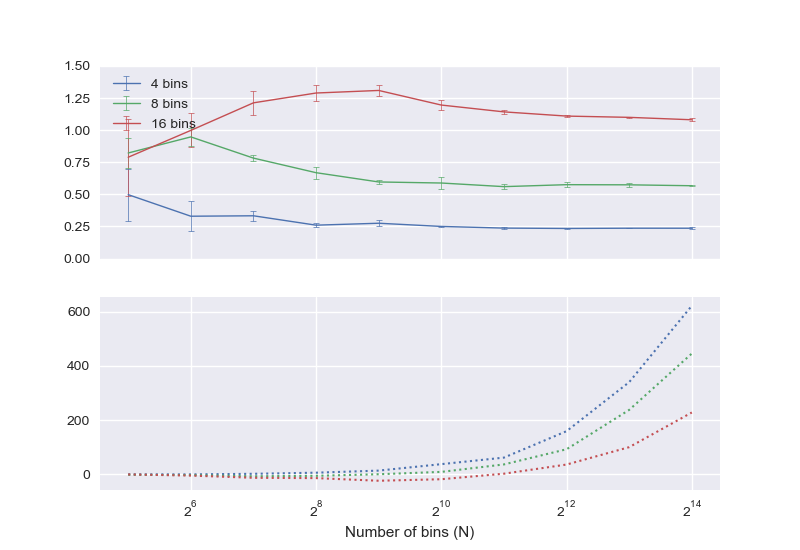
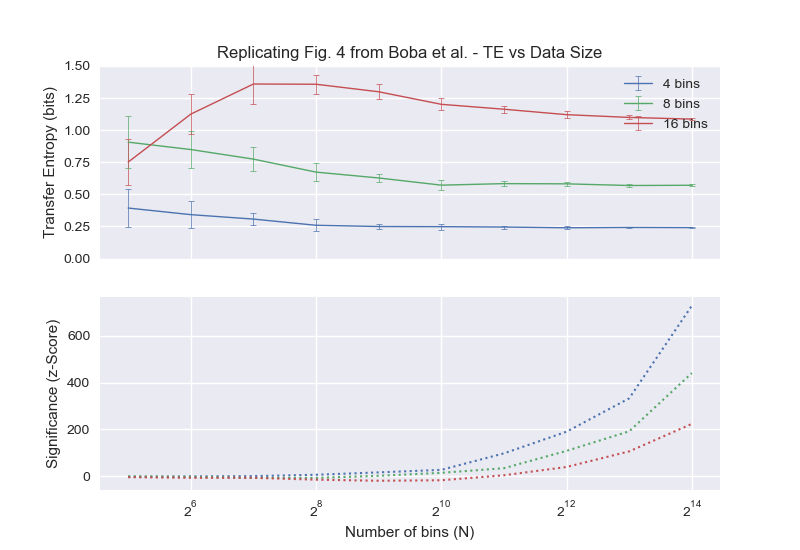
Added README, saved figures

diff --git a/PyCausality/Examples/coupled_map.py b/PyCausality/Examples/coupled_map.py
@@ -17,7 +17,7 @@ from PyCausality.TransferEntropy import *
 from PyCausality.Testing.Test_Utils.Time_Series_Generate import *
 
 AUTO_BINS = True
-N_OBSERVATIONS = 5    # Error Bars
+N_OBSERVATIONS = 10    # Error Bars
 N_SHUFFLES = 50       # Z-score
 
 Ns = [2**5, 2**6, 2**7, 2**8, 2**9, 2**10, 2**11, 2**12, 2**13, 2**14]
@@ -91,6 +91,7 @@ Z_axis.set_xlabel("Number of bins (N)")
 Z_axis.set_ylabel('Significance (z-Score)')
 TE_axis.legend(['4 bins','8 bins', '16 bins'])
 TE_axis.set_ylim(ymin=0,ymax=1.5)
+TE_axis.set_title('Replicating Fig. 4 from Boba et al. - TE vs Data Size')
 
-plt.savefig(os.path.join('Examples','Plots','Logistic_Coupled_Map.png'))
+plt.savefig(os.path.join(os.getcwd(),'PyCausality','Examples','Plots','Logistic_Coupled_Map.png'))
 plt.show()

diff --git a/PyCausality/Examples/optimal_bins.py b/PyCausality/Examples/optimal_bins.py
@@ -115,5 +115,5 @@ Z_axis.legend(['Significance of TE_X->Y with Equal Bins','Significance of TE_X->
                'Significance of TE_X->Y with Sigma Bins'])
 TE_axis.set_title('Coupled (Similarity = ' +str(SIMILARITY) + ') Gaussian Time Series using Different Bins.')
 
-plt.savefig(os.path.join('Examples','Plots','TE_vs_bins_alpha=' + str(SIMILARITY) + '.png'))
+plt.savefig(os.path.join(os.getcwd(),'PyCausality', 'Examples','Plots','TE_vs_bins_alpha=' + str(SIMILARITY) + '.png'))
 plt.show()

diff --git a/setup.py b/setup.py
@@ -12,5 +12,5 @@ setup(name="PyCausality",
       url="https://github.com/ZacKeskin/PyCausality",
       license="GNU GPLv3",
       packages=find_packages(),
-      install_requires = ['pandas','statsmodels','numpy', 'python-dateutil']
+      install_requires = ['pandas','statsmodels','numpy', 'python-dateutil','nose']
 )

diff --git a/PyCausality/Examples/te_vs_lag.py b/PyCausality/Examples/te_vs_lag.py
@@ -133,6 +133,6 @@ Z_axis.legend(['Significance of TE (S1->S2)','Significance of TE (S2->S1)'])
 plt.grid(linestyle='dashed')
 
 
-plt.savefig(os.path.join('Examples','Plots','Detect_Lag.png'))
+plt.savefig(os.path.join(os.getcwd(),'PyCausality','Examples','Plots','Detect_Lag.png'))
 plt.show()
 

diff --git a/README.md b/README.md
@@ -1,0 +1,119 @@
+# PyCausality
+
+PyCausality is a Python package enabling the rapid and flexible calculation of causality between multiple time series.
+
+
+
+# Installation
+
+The package can be downloaded from PyPi using pip. We recommend using Anaconda for creating virtual environments https://www.anaconda.com/download. In your chosen conda environment, or globally, you can then install PyCausality using:
+
+`pip install PyCausality`
+
+# Usage
+
+It is recommended to import the package object into your research code using:
+
+`from PyCausality import *`
+
+Which will give you access to:
+
+- `LaggedTimeSeries` objects
+- `TransferEntropy` objects
+- `AutoBins` objects
+
+With time series data stored in a pandas DataFrame, perform predictive analysis by invoking the TransferEntropy class. Using an example of daily stock price data, to calculate the information transfer in each direction between MSFT and AAPL, you would perform this as follows:
+
+    ## Initialise Object to Calculate Transfer Entropy
+    TE = TransferEntropy(   DF = DataFrame,
+                            endog = 'MSFT',     # Dependent Variable
+                            exog = 'AAPL',      # Independent Variable
+                            lag = 2,
+                            window_size = {'MS':6},
+                            window_stride = {'W':2}
+                            )
+
+    ## Calculate TE using KDE
+    TE.nonlinear_TE(pdf_estimator = 'kernel', n_shuffles=100)
+
+    ## Display TE_XY, TE_YX and significance values
+    print(TE.results)
+
+This example shows windowing of the time series, to reduce the risk of non-stationarity impacting the significance of the causality, and to provide multiple views on the overall timeseries (some periods may express large dependencies which could be cancelled out by earlier periods). 
+
+To make use of automatic binning, you may supply the data you would like to bin to the AutoBins class, and generate bins as follows:
+
+    Auto = AutoBins(df = Data, lag = 2)
+
+    knuth_bins  =    Auto.knuth_bins()
+    MIC_bins    =    Auto.MIC_bins()
+    sigma_bins  =    Auto.sigma_bins()
+    
+
+
+These bins are returned in the expected format (dict of lists) for direct passage into the TransferEntropy class.
+
+# Examples
+
+PyCausality provides a number of fully worked-through examples, for model validation and to help users understand the syntax and usage. These use synthetic data common to the literature (e.g. random walks), and can be found in the PyCausality/Examples folder.
+
+Plots produced from running the code are also provided, and are saved in PyCausality/Examples/Plots.
+
+
+# Tests
+
+The package comes with both unit and integration tests, designed to be run using nose, the Python testing framework:  http://nose.readthedocs.io/en/latest/index.html 
+
+To run unit tests, in the installation root directory run:
+
+`nosetests PyCausality.Testing.unit_tests`
+
+To run integration tests, in the installation root directory run:
+
+`nosetests PyCausality.Testing.integration_tests`
+
+Alternatively,all tests can be run at once by simply running:
+
+`nosetests`
+
+
+# Contribute
+
+Contributions to PyCausality are actively welcomed. 
+
+Planned features for future releases include:
+
+- Multiple Endogenous Variables
+    - Comparing (useful for Conditional TE - conditioning on extra side-information)
+- New automatic binning techniques
+    - z-score_bins() method for generating bins which maximise significance
+    - knn_bins() method for variable-width bins corresponding to equal samples per bin
+- Extending automatic binning to higher dimensions (currently only sigma_bins() accepts >2D)
+- Inclusion of other causality detection  techniques
+
+Additional functionality must be accompanied with thorough unit tests, and any PRs must be shown to pass all unit tests before being accepted.
+
+
+## References
+
+The study of information theoretic techniques for predictive analytics is sizeable and growing quickly. It is therefore not feasible to provide a comprehensive list of references informing the development of the PyCausality package. 
+
+However, a solid overview of Transfer Entropy and the key techniques underlying this package will be gleaned from:
+
+- Boba, P., Bollmann, D., Schoepe, D., Wester, N., Wiesel, J., & Hamacher, K. (2015). Efficient computation and statistical assessment of transfer entropy. Frontiers in Physics, 3, 10.
+
+
+- Bossomaier, T., Barnett, L., Harré, M., & Lizier, J. T. (2016). An introduction to transfer entropy. Springer: Berlin, Germany.
+
+
+- Marschinski, R., & Kantz, H. (2002). Analysing the information flow between financial time series. The European Physical Journal B-Condensed Matter and Complex Systems, 30(2), 275-281.
+
+- Knuth, K. H. (2006). Optimal data-based binning for histograms. arXiv preprint physics/0605197.
+
+
+- San Liang, X. (2014). Unraveling the cause-effect relation between time series. Physical Review E, 90(5), 052150.
+
+
+- Schreiber, T. (2000). Measuring information transfer. Physical review letters, 85(2), 461.
+
+- Zaremba, A., & Aste, T. (2014). Measures of causality in complex datasets with application to financial data. Entropy, 16(4), 2309-2349.
